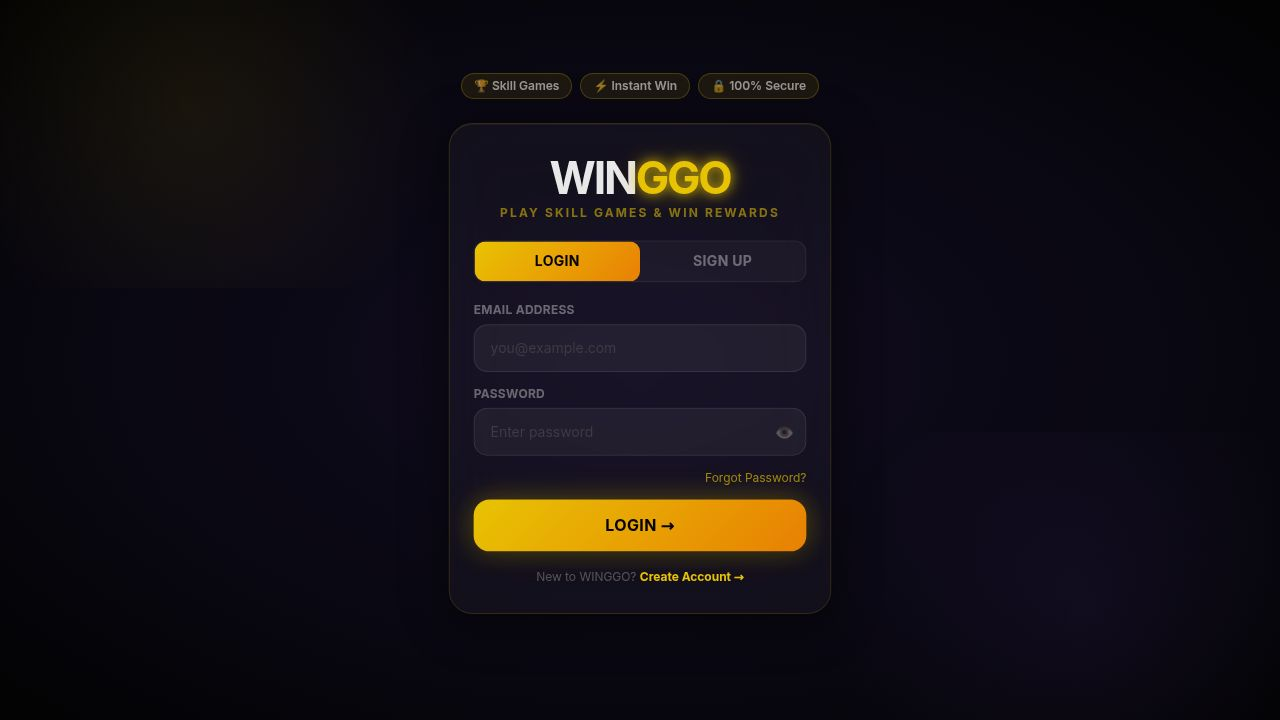
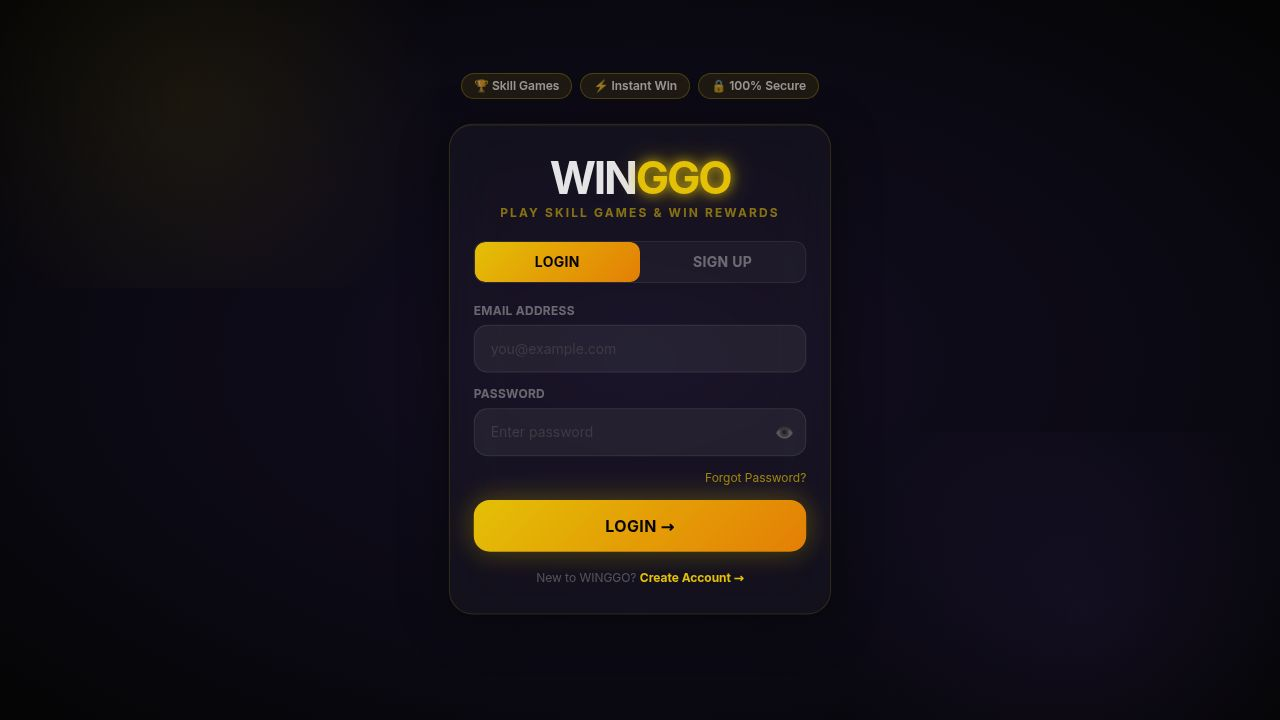
Add user profile picture functionality with upload and display options
Introduce a reusable AvatarUpload component for displaying user profile pictures, replacing default initial placeholders, and enabling image uploads via native file picker. Updates are reflected in both the dashboard header and profile screen.

Replit-Commit-Author: Agent
Replit-Commit-Session-Id: 04a1f4f5-c1ec-4b23-b46f-27ae48ae2dfa
Replit-Commit-Checkpoint-Type: full_checkpoint
Replit-Commit-Event-Id: f06c4a8f-4521-4bb0-baf5-f6ee3f9d84d1
Replit-Commit-Screenshot-Url: https://storage.googleapis.com/screenshot-production-us-central1/df58c22a-d45f-4cf2-b7a6-ffbd01208f0b/04a1f4f5-c1ec-4b23-b46f-27ae48ae2dfa/dcyeC2S
Replit-Helium-Checkpoint-Created: true

diff --git a/artifacts/winzo/src/components/AvatarUpload.tsx b/artifacts/winzo/src/components/AvatarUpload.tsx
@@ -1,0 +1,125 @@
+import { useRef, useState } from "react";
+import { motion, AnimatePresence } from "framer-motion";
+import { uploadProfilePhoto } from "@/firebase/storage.service";
+import { updateProfile as fbUpdateProfile } from "firebase/auth";
+import { auth } from "@/firebase/config";
+import { useAuth } from "@/context/useAuth";
+
+interface AvatarUploadProps {
+  size?: number;
+  showEditHint?: boolean;
+}
+
+export default function AvatarUpload({ size = 36, showEditHint = false }: AvatarUploadProps) {
+  const { user, updateProfile } = useAuth();
+  const inputRef = useRef<HTMLInputElement>(null);
+  const [uploading, setUploading] = useState(false);
+
+  const initial =
+    user?.displayName?.charAt(0)?.toUpperCase() ??
+    user?.email?.charAt(0)?.toUpperCase() ??
+    "?";
+
+  async function handleFile(e: React.ChangeEvent<HTMLInputElement>) {
+    const file = e.target.files?.[0];
+    if (!file || !user) return;
+    e.target.value = "";
+    setUploading(true);
+    try {
+      const result = await uploadProfilePhoto(user.uid, file);
+      if (result?.url) {
+        if (auth?.currentUser) {
+          await fbUpdateProfile(auth.currentUser, { photoURL: result.url });
+        }
+        await updateProfile({ photoURL: result.url });
+      }
+    } catch {
+    } finally {
+      setUploading(false);
+    }
+  }
+
+  return (
+    <>
+      <input
+        ref={inputRef}
+        type="file"
+        accept="image/*"
+        className="hidden"
+        onChange={handleFile}
+      />
+      <motion.button
+        data-testid="button-profile-avatar"
+        whileTap={{ scale: 0.93 }}
+        onClick={() => inputRef.current?.click()}
+        className="relative shrink-0 cursor-pointer"
+        style={{ width: size, height: size, borderRadius: "50%" }}
+      >
+        {user?.photoURL ? (
+          <img
+            src={user.photoURL}
+            alt="avatar"
+            className="w-full h-full rounded-full object-cover"
+            style={{ border: "2px solid rgba(255,215,0,0.55)" }}
+          />
+        ) : (
+          <div
+            className="w-full h-full rounded-full flex items-center justify-center font-black select-none"
+            style={{
+              background: "linear-gradient(135deg, #FFD700, #ff8c00)",
+              fontSize: size * 0.38,
+              color: "#000",
+              boxShadow: "0 0 10px rgba(255,215,0,0.4)",
+            }}
+          >
+            {initial}
+          </div>
+        )}
+
+        <AnimatePresence>
+          {uploading && (
+            <motion.div
+              className="absolute inset-0 rounded-full"
+              initial={{ opacity: 0 }}
+              animate={{ opacity: 1 }}
+              exit={{ opacity: 0 }}
+              style={{
+                background: "rgba(0,0,0,0.45)",
+                display: "flex",
+                alignItems: "center",
+                justifyContent: "center",
+              }}
+            >
+              <motion.div
+                className="rounded-full"
+                animate={{ rotate: 360 }}
+                transition={{ duration: 0.75, repeat: Infinity, ease: "linear" }}
+                style={{
+                  width: size * 0.55,
+                  height: size * 0.55,
+                  border: `${Math.max(2, size * 0.05)}px solid rgba(255,215,0,0.25)`,
+                  borderTopColor: "#FFD700",
+                }}
+              />
+            </motion.div>
+          )}
+        </AnimatePresence>
+
+        {showEditHint && !uploading && (
+          <div
+            className="absolute -bottom-1 -right-1 flex items-center justify-center rounded-full"
+            style={{
+              width: size * 0.33,
+              height: size * 0.33,
+              background: "linear-gradient(135deg, #FFD700, #ff8c00)",
+              border: "2px solid #07050f",
+              fontSize: size * 0.16,
+            }}
+          >
+            📷
+          </div>
+        )}
+      </motion.button>
+    </>
+  );
+}

diff --git a/artifacts/winzo/src/pages/ProfileScreen.tsx b/artifacts/winzo/src/pages/ProfileScreen.tsx
@@ -1,6 +1,8 @@
 import { useState } from "react";
 import { motion, AnimatePresence } from "framer-motion";
 import { useWallet } from "@/context/useWallet";
+import { useAuth } from "@/context/useAuth";
+import AvatarUpload from "@/components/AvatarUpload";
 
 interface ProfileScreenProps {
   onKYC?: () => void;
@@ -43,11 +45,13 @@ const MENU_ITEMS = [
 
 export default function ProfileScreen({ onKYC, onRefer, onWallet, onLogout }: ProfileScreenProps) {
   const { wallet, total } = useWallet();
+  const { user } = useAuth();
   const kycStatus = getKycStatus();
   const kycCfg = KYC_STATUS_CONFIG[kycStatus];
   const [logoutConfirm, setLogoutConfirm] = useState(false);
   const [editName, setEditName] = useState(false);
-  const [username, setUsername] = useState("Rahul_Pro");
+  const displayName = user?.displayName || "Player";
+  const [username, setUsername] = useState(displayName);
   const [tempName, setTempName] = useState(username);
 
   function handleMenu(id: string) {
@@ -108,15 +112,7 @@ export default function ProfileScreen({ onKYC, onRefer, onWallet, onLogout }: Pr
               transition={{ duration: 2.4, repeat: Infinity, ease: "easeInOut" }}
               style={{ borderRadius: "999px" }}
             >
-              <div
-                className="w-24 h-24 rounded-full flex items-center justify-center text-4xl"
-                style={{
-                  background: "linear-gradient(135deg, #7c3aed, #FFD700)",
-                  border: "3px solid rgba(255,215,0,0.6)",
-                }}
-              >
-                👑
-              </div>
+              <AvatarUpload size={96} showEditHint />
               {/* VIP badge */}
               <div
                 className="absolute -bottom-1 -right-1 px-2 py-0.5 rounded-full text-[9px] font-black"
@@ -124,6 +120,7 @@ export default function ProfileScreen({ onKYC, onRefer, onWallet, onLogout }: Pr
                   background: "linear-gradient(135deg, #FFD700, #ff8c00)",
                   color: "#000",
                   border: "2px solid #07050f",
+                  marginBottom: "8px",
                 }}
               >
                 VIP

diff --git a/artifacts/winzo/src/pages/Dashboard.tsx b/artifacts/winzo/src/pages/Dashboard.tsx
@@ -5,6 +5,7 @@ import { useWallet } from "@/context/useWallet";
 import { subscribeGames, seedGamesIfEmpty, GameConfig } from "@/firebase/firestore.service";
 import { FIREBASE_ENABLED } from "@/firebase/config";
 import GameEntrySheet, { SheetGame } from "@/components/GameEntrySheet";
+import AvatarUpload from "@/components/AvatarUpload";
 
 const CATEGORY_SECTIONS = [
   { key: "Popular", label: "🔥 Popular Games",   accent: "#ff4e00" },
@@ -316,17 +317,7 @@ export default function Dashboard({ onSpin, onLudo, onLudoFast, onSaanpSidi, onW
         }}
       >
         {/* Profile Avatar */}
-        <motion.button
-          data-testid="button-profile-avatar"
-          whileTap={{ scale: 0.93 }}
-          className="w-9 h-9 rounded-full flex items-center justify-center text-sm font-bold cursor-pointer"
-          style={{
-            background: "linear-gradient(135deg, #FFD700, #ff8c00)",
-            boxShadow: "0 0 10px rgba(255,215,0,0.4)",
-          }}
-        >
-          A
-        </motion.button>
+        <AvatarUpload size={36} />
 
         {/* WINGGO Logo */}
         <h1 className="font-black text-2xl tracking-tighter leading-none">